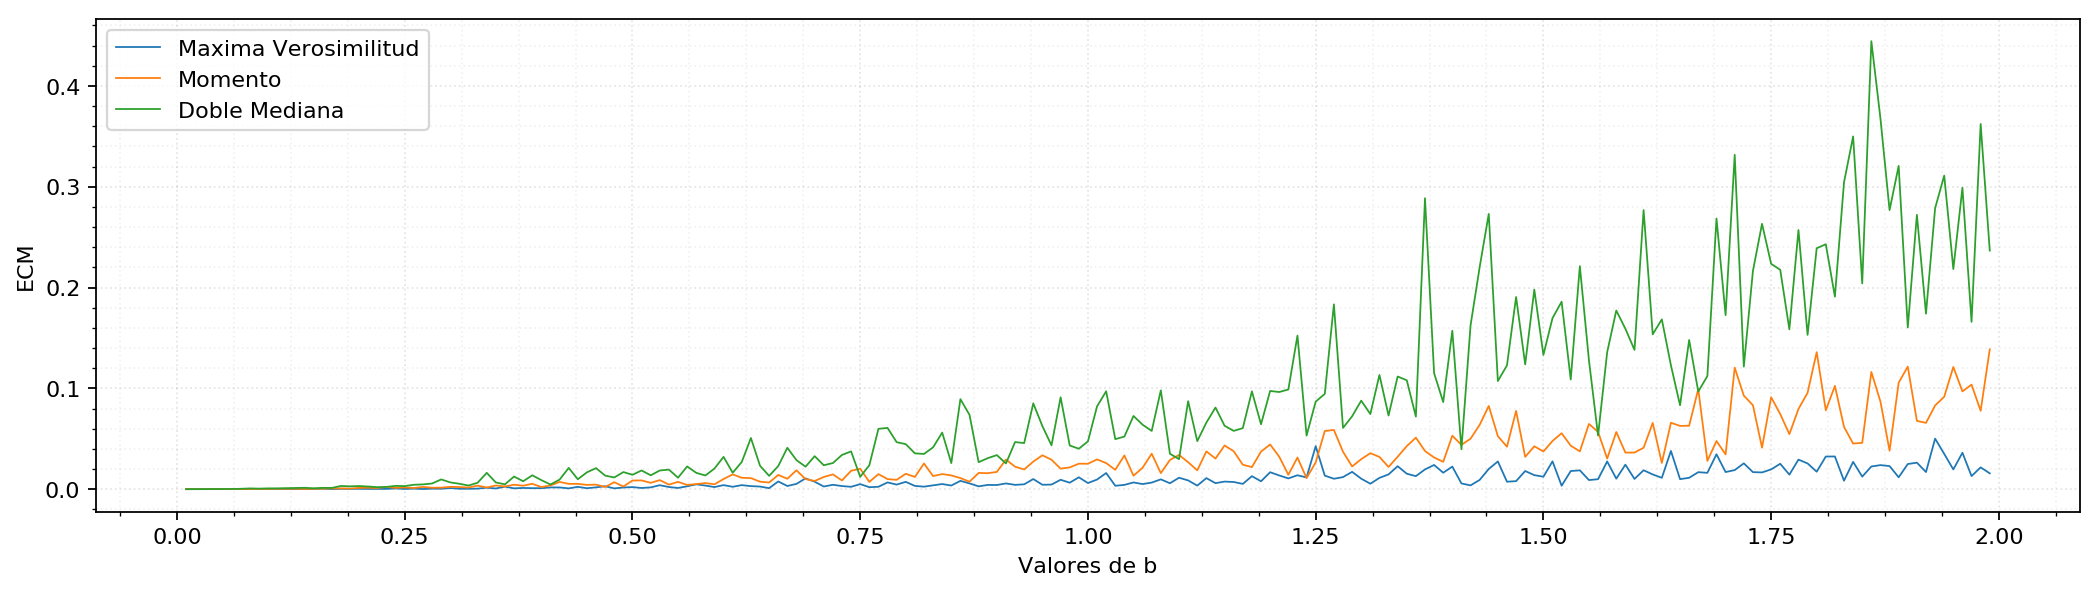
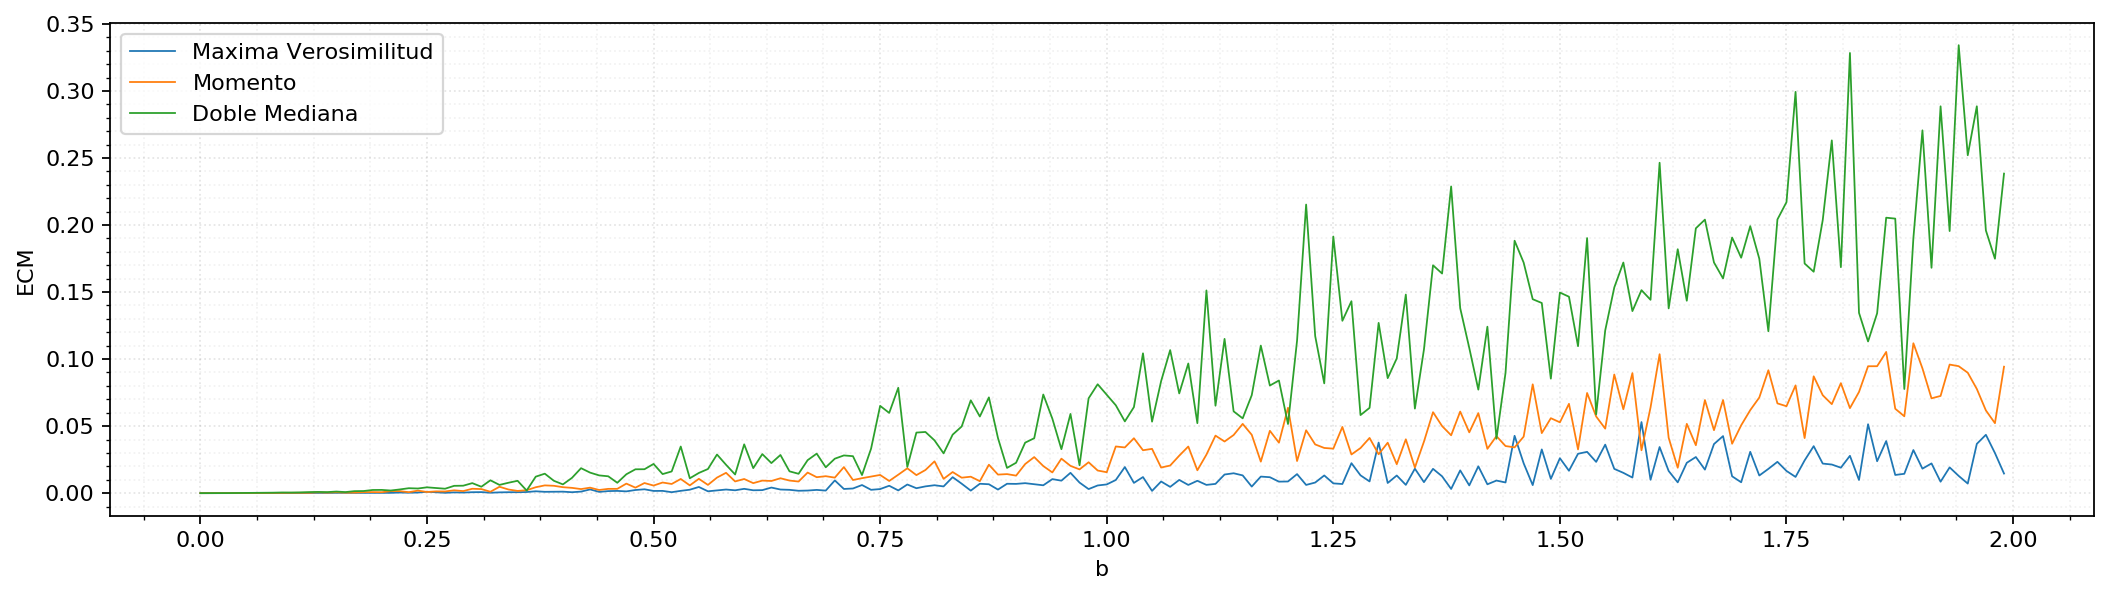
merge

diff --git a/tp2.py b/tp2.py
@@ -97,16 +97,17 @@ def simular_sesgo_varianza_y_ecm_para_estimador(nombre_estimador, b, muestra):
 	estimador = statistics.mean(muestra)
 
 	# Calculamos el sesgo del estimador restándolo con el valor real de 'b'
-	sesgo = b - estimador
+	sesgo = estimador - b
 
 	# Ahora calculamos la varianza muestral del estimador. La función statistics.variance() es la
 	# varianza muestral que provee Python mientras que statistics.pvariance() es la varianza poblacional.
 	# En este caso, es adecuado utilizar statistics.variance():
 	var_estimador = statistics.variance(muestra, estimador)
+	var_estimador = calcular_varianza_muestral(muestra, estimador)
 
 	# Finalmente, procedemos a calcular el Error Cuadrático Medio del estimador utilizando su varianza
 	# muestral y su respectivo sesgo:
-	ecm = var_estimador + sesgo ** 2
+	ecm = var_estimador + (sesgo ** 2)
 
 	if nombre_estimador != None: # Porque no siempre voy a querer mostrar todo esto por pantalla
 		print(f"	Simulando estimador {nombre_estimador}")
@@ -122,6 +123,14 @@ def simular_sesgo_varianza_y_ecm_para_estimador(nombre_estimador, b, muestra):
 		"var_estimador": var_estimador,
 		"ecm": ecm
 	}
+
+def calcular_varianza_muestral(muestra, esperanza):
+	varianza = 0
+
+	for valor in muestra:
+		varianza += (valor - esperanza)**2
+
+	return varianza / (len(muestra) - 1)
 
 #################################################################################################
 ####################################### Ejercicio 5 #############################################
@@ -153,7 +162,7 @@ def ejercicio_6():
 	a = 0.0
 	b = 2.0
 	step = 0.01
-	bs = numpy.arange(start = a + step, stop = b, step = step)
+	bs = numpy.arange(start = a, stop = b, step = step)
 
 	simulaciones_mv = [simulacion_mv(b = b, n = 15) for b in bs]
 	simulaciones_mom = [simulacion_mom(b = b, n = 15) for b in bs]
@@ -174,16 +183,16 @@ def ejercicio_6():
 	leyendas = ["Maxima Verosimilitud", "Momento", "Doble Mediana"]
 
 	plot("Sesgos", bs, [sesgos_mv, sesgos_mom, sesgos_med], 
-		labels=leyendas, graficar_grande=True, output="sesgos.png",
-		save_instead_of_plotting = False)
+		labels=leyendas, graficar_grande=True, xlabel="b", output="sesgos.png",
+		save_instead_of_plotting = False, marker='')
 
 	plot("Varianzas", bs, [varianzas_mv, varianzas_mom, varianzas_med], 
-		labels=leyendas, graficar_grande=True, output="varianzas.png",
-		save_instead_of_plotting = False)
+		labels=leyendas, graficar_grande=True, xlabel="b", output="varianzas.png",
+		save_instead_of_plotting = False, marker='')
 
 	plot("ECM", bs, [ecms_mv, ecms_mom, ecms_med], 
-		labels=leyendas, graficar_grande=True, output="ecm.png",
-		save_instead_of_plotting = False)
+		labels=leyendas, graficar_grande=True, xlabel="b", output="ecm.png",
+		save_instead_of_plotting = False, marker='')
 
 #################################################################################################
 ####################################### Ejercicio 7 #############################################
@@ -203,12 +212,13 @@ def plot_x_axis():
 	plt.axhline(0, color='black', linewidth=1)
 
 def ejercicio_7():
-	ns = [15, 30, 60, 120, 240, 480, 960, 1920]
+	ns = [15, 30, 60, 120, 240, 480]#, 960, 1920, 2500, 3000, 3500, 4000]
 
 	simulaciones_mv = [simulacion_mv(b = 1.0, n = n) for n in ns]
 	simulaciones_mom = [simulacion_mom(b = 1.0, n = n) for n in ns]
 	simulaciones_med = [simulacion_med(b = 1.0, n = n) for n in ns]
 
+	# ECM en función de n
 	ns_ecm_mv = como_lista("ecm", simulaciones_mv)
 	ns_ecm_mom = como_lista("ecm", simulaciones_mom)
 	ns_ecm_med = como_lista("ecm", simulaciones_med)
@@ -216,26 +226,37 @@ def ejercicio_7():
 	leyendas = ["Maxima Verosimilitud", "Momento", "Doble Mediana"]
 
 	setup_plot("ECM", ns, [ns_ecm_mv, ns_ecm_mom, ns_ecm_med], 
-		labels=leyendas, graficar_grande = False, xlabel="n")
+		labels=leyendas, graficar_grande = True, xlabel="n", marker='.')
+	plot_x_axis()
 	plot_varianzas_estimadores(simulaciones_mv, simulaciones_mom, simulaciones_med)
-	show_plot(output="ecm-en-f-de-n-small.png",
-		save_instead_of_plotting = True)
+	show_plot(output="ecm-en-f-de-n.png",
+		save_instead_of_plotting = False)
 
+	# Sesgos en función de n
 	ns_sesgos_mv = como_lista("sesgo", simulaciones_mv)
 	ns_sesgos_mom = como_lista("sesgo", simulaciones_mom)
 	ns_sesgos_med = como_lista("sesgo", simulaciones_med)
 
 	setup_plot("Sesgo", ns, [ns_sesgos_mv, ns_sesgos_mom, ns_sesgos_med],
-		labels=leyendas, graficar_grande = False, xlabel="n")
+		labels=leyendas, graficar_grande = True, xlabel="n", marker='.')
 	plot_x_axis()
-	show_plot(output="sesgos-en-f-de-n-small.png", save_instead_of_plotting = True)
+	show_plot(output="sesgos-en-f-de-n.png", save_instead_of_plotting = False)
+
+	# Varianza en función de n
+	ns_var_mv = como_lista("var_estimador", simulaciones_mv)
+	ns_var_mom = como_lista("var_estimador", simulaciones_mom)
+	ns_var_med = como_lista("var_estimador", simulaciones_med)
+
+	setup_plot("Varianza", ns, [ns_var_mv, ns_var_mom, ns_var_med],
+		labels=leyendas, graficar_grande = False, xlabel="n", marker='.')
+	plot_x_axis()
+	show_plot(output="varianzas-en-f-de-n-small.png", save_instead_of_plotting = False)
 
 #################################################################################################
 ####################################### Ejercicio 8 #############################################
 #################################################################################################
 
 def ejercicio_8:
-
 	# Tomamos la muestra dada por la catedra.
 	muestra = [0.917 0.247 0.384 0.530 0.798 0.912 0.096 0.684 0.394 20.1 0.769 0.137 0.352 0.332 0.670]
 
@@ -247,23 +268,25 @@ def ejercicio_8:
 ########################################## MISC #################################################
 #################################################################################################
 
-def plot(titulo_eje_y, xs, yss, labels, graficar_grande, xlabel, output, save_instead_of_plotting):
-	setup_plot(titulo_eje_y, xs, yss, labels, graficar_grande, xlabel)
+def plot(titulo_eje_y, xs, yss, labels, graficar_grande, xlabel, output, save_instead_of_plotting, marker):
+	setup_plot(titulo_eje_y, xs, yss, labels, graficar_grande, xlabel, marker)
 	show_plot(output, save_instead_of_plotting)
 
 def como_lista(parametro, simulaciones):
 	return [simulacion[parametro] for simulacion in simulaciones]
 
-def setup_plot(titulo_eje_y, xs, yss, labels, graficar_grande, xlabel):
+def setup_plot(titulo_eje_y, xs, yss, labels, graficar_grande, xlabel, marker):
 	if graficar_grande:
 		plt.rcParams["figure.figsize"] = (16, 4)
+	else:
+		plt.rcParams["figure.figsize"] = (8, 6)
 
 	plt.tight_layout(pad=0)
 	plt.xlabel(xlabel)
 	plt.ylabel(titulo_eje_y)
 
 	for ys, label in zip(yss, labels):
-		plt.plot(xs, ys, label=label, linewidth=0.8, marker='.')
+		plt.plot(xs, ys, label=label, linewidth=0.8, marker=marker)
 	
 	plt.grid(True)
 	plt.grid(b=True, which='major', color='black', linestyle='dotted', alpha=0.1)
@@ -282,8 +305,8 @@ def show_plot(output, save_instead_of_plotting):
 	plt.clf()
 
 def ejecutar_ejercicios():
-	ejercicio_3()
-	ejercicio_4()
+	# ejercicio_3()
+	# ejercicio_4()
 	# ejercicio_6()
 	ejercicio_7()
 

diff --git a/informe/ejercicio7.tex b/informe/ejercicio7.tex
@@ -18,3 +18,10 @@ Observando el gráfico \ref{fig:ej7-ecm-en-f-de-n}, podemos sospechar que los er
 \end{figure}
 
 Podemos conjeturar, entonces, que los sesgos de los estimadores $\hat{\theta}_{mom}$ y $\hat{\theta}_{med}$ tienden a cero. ¿Pero qué hay del estimador de máxima verosimilitud? Si calculamos $E(\hat{\theta}_{mv})$, llegaremos a que equivale a $\frac{n}{n+1} * \theta$, que si bien no es igual a $\theta$, sí tiende a este valor cuando $n \rightarrow \infty$. Luego el estimador de máxima verosimilitud es asintóticamente insesgado por lo tanto los errores cuadráticos medios de los estimadores efectivamente tienden a sus varianzas, y estas varianzas son muy cercanas a cero. Finalmente, como los estimadores son asintóticamente insesgados y sus varianzas se asimilan al valor nulo, se puede sospechar que son consistentes.
+
+\begin{figure}[H]
+	\centering
+	\includegraphics[width=1\textwidth]{imagenes/varianzas-en-f-de-n-small.png}
+	\caption{\footnotesize Varianzas de los estimadores en función de n. $a=0, b=1$}
+	\label{fig:ej7-varianzas-en-f-de-n-small}
+\end{figure}

diff --git a/informe/ejercicio6.tex b/informe/ejercicio6.tex
@@ -8,7 +8,7 @@ A continuación, procederemos a graficar los sesgos, varianzas y errores cuadrá
 	\label{fig:ej6-sesgos}
 \end{figure}
 
-En la figura \ref{fig:ej6-sesgos} se puede observar que, a medida que el valor de $b$ aumenta, el valor absoluto del sesgo del estimador de $b$ también incrementa. Esto tiene sentido porque, al observar la figura \ref{fig:ej6-varianzas}, a medida que $b$ aumenta, la varianza de los estimadores también.
+En la figura \ref{fig:ej6-sesgos} se puede observar que, a medida que el valor de $b$ aumenta, el valor absoluto del sesgo del estimador de $b$ también incrementa. Esto tiene sentido porque, por ejemplo, un error del 5\% en un estimador de $b=1$ sería $0,95$ o $1,05$, mientras que un error del 5\% en un estimador de $b = 100$ sería $95$ o $105$. Por eso, si bien la calidad del estimador no varía en función de $b$, sí la magnitud de sus sesgos. Si graficásemos los sesgos como porcentajes de error, obtendríamos una función aproximadamente constante.
 
 \begin{figure}[H]
 	\centering

diff --git a/informe/ejercicio4y5.tex b/informe/ejercicio4y5.tex
@@ -4,10 +4,10 @@ A continuación se exponen los datos requeridos por el ejercicio 4. Para más de
 	\centering
 	\begin{tabular}{lccc}
 		\textbf{Estimador} & $\hat{\theta}_{mv}$ & $\hat{\theta}_{mom}$ & $\hat{\theta}_{med}$ \\
-		Promedio  & $0.935$ 				& $1.003$ 				& $1.005$ \\
-		Sesgo     & $0.064$ 				& $-0.003$ 				& $-0.005$ \\
-		Varianza  & $0.003$ 				& $0.022$ 				& $0.057$ \\
-		ECM       & $0.007$ 				& $0.022$ 				& $0.057$
+		Promedio  & $0.938$ 				& $0.998$ 				& $0.997$ \\
+		Sesgo     & $-0.064$ 				& $-0.001$ 				& $-0.002$ \\
+		Varianza  & $0.003$ 				& $0.022$ 				& $0.058$ \\
+		ECM       & $0.007$ 				& $0.022$ 				& $0.058$
 	\end{tabular}
 \end{table}
 
